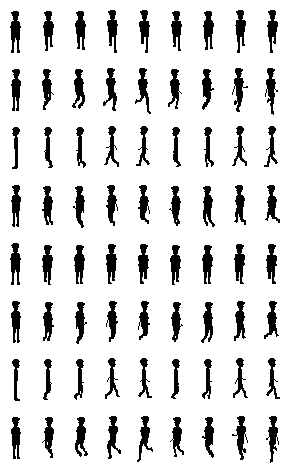
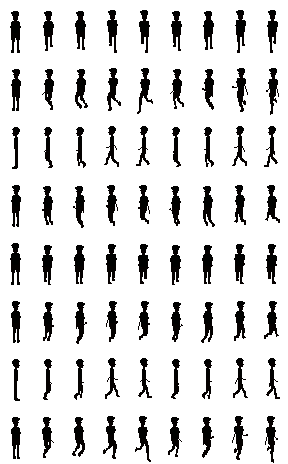
Swap the south-east and south-west walk animations
Claude-Session: https://claude.ai/code/session_01Xiux81LEqjvUithNNjQsjc

diff --git a/tools/make_hero_sheet.py b/tools/make_hero_sheet.py
@@ -64,8 +64,8 @@ def idle_cell(ci, row):
     m = idle[ya:yb, x0:x1, 3] > 0; ys = np.where(m.any(1))[0]; top, bot = ya + ys.min(), ya + ys.max()
     return cell(idle, center_x(idle, top, top + 26, x0, x1), bot, (x0, x1), (ya, yb))
 flip = lambda c: c[:, ::-1].copy()
-# direction rows: 0 d, 1 dl, 2 l, 3 ul, 4 u, 5 ur, 6 r, 7 dr   (walk columns: 0 dl, 1 r, 2 d, 3 u, 4 ur)
-WALK_SRC = {0: (2, False), 1: (0, False), 2: (1, True), 3: (4, True), 4: (3, False), 5: (4, False), 6: (1, False), 7: (0, True)}
+# direction rows: 0 d, 1 dl, 2 l, 3 ul, 4 u, 5 ur, 6 r, 7 dr   (walk columns: 0 dr, 1 r, 2 d, 3 u, 4 ur)
+WALK_SRC = {0: (2, False), 1: (0, True), 2: (1, True), 3: (4, True), 4: (3, False), 5: (4, False), 6: (1, False), 7: (0, False)}
 IDLE_SRC = {0: (2, 1), 1: (1, 1), 2: (0, 1), 3: (1, 0), 4: (2, 0), 5: (3, 0), 6: (4, 1), 7: (3, 1)}
 frames = {}
 for d in range(8):
